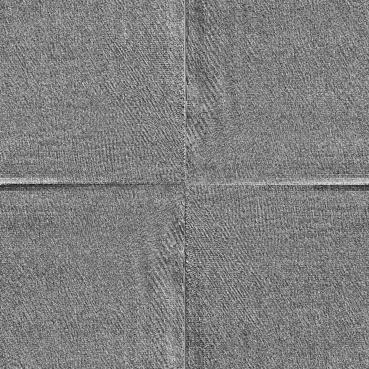
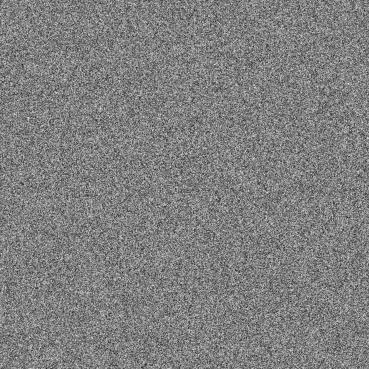
toogle between phase and magnitude

diff --git a/app.py b/app.py
@@ -12,7 +12,22 @@ import os
 import sys
 app = Flask(__name__)
 
+# @app.route('/', methods=['GET', 'POST'])
+# def index():
+#     return render_template('index.html')
+# @app.route('/get', methods=['GET', 'POST'])
+# def get(jsdata):
+#     print(jsdata)
+#     return 'success'
+# @app.route('/post', methods=['GET', 'POST'])
+# def post():
+#     print('hello')
+#     print(request.form['data'])
+#     return 'success'
+# if __name__ == '__main__':
+#     app.run()
 
+########################################### Misara #######################################
 @app.route("/" ,methods=['POST','GET'])
 def image():
     if request.method == 'POST':
@@ -27,34 +42,50 @@ def image():
                 print('CUTZZZZZ')            
         if phasemag != None:
             if phasemag.filename == '1':
-                print('phase1mag2')
+                Functions.var = [2,1]
             else:
-                print('phase2mag1')
+                Functions.var = [0,3]
         if img1 != None:
             imgs_save = img1.filename + '.jpg'
             img1.save(imgs_save)
             Functions.fourier_1 = Functions.fourier('./image1.jpg')
-            Functions.fourier_1 = Functions.magphase(Functions.fourier_1, 'mag')
-            Functions.visulaize(np.log(Functions.fourier_1),1)
+            Functions.fouriers_list[0] = Functions.magphase(Functions.fourier_1, 'mag')
+            Functions.fouriers_list[1] = Functions.magphase(Functions.fourier_1, 'phase')
+            # Functions.fourier_1 = Functions.magphase(Functions.fourier_1, 'mag')
+            # Functions.visulaize(np.log(Functions.fourier_1),1)
             Functions.flag_1 = True
         if img2 != None:
             imgs_save2 = img2.filename + '.jpg'
             img2.save(imgs_save2)
             Functions.fourier_2 = Functions.fourier('./image2.jpg')
-            Functions.fourier_2 = Functions.magphase(Functions.fourier_2, 'phase')
-            Functions.visulaize(Functions.fourier_2,2)
+            Functions.fouriers_list[2] = Functions.magphase(Functions.fourier_2, 'mag')
+            Functions.fouriers_list[3] = Functions.magphase(Functions.fourier_2, 'phase')
+            # Functions.fourier_2 = Functions.magphase(Functions.fourier_2, 'phase')
+            # Functions.visulaize(Functions.fourier_2,2)
             Functions.flag_2 = True
-        if Functions.flag_1:
-            re_image = Functions.re_fourier(Functions.fourier_1,Functions.random_mat)
-        if Functions.flag_2:
-            re_image = Functions.re_fourier(Functions.random_mat,Functions.fourier_2)
-        if Functions.flag_1 and Functions.flag_2:
-            re_image = Functions.re_fourier(Functions.fourier_1,Functions.fourier_2)
+        # if Functions.var == 1:
+        #     Functions.fourier_1 = Functions.magphase(Functions.fourier_1, 'phase')
+        #     Functions.visulaize(Functions.fourier_1,1)
+        #     Functions.fourier_2 = Functions.magphase(Functions.fourier_2, 'mag')
+        #     Functions.visulaize(np.log(Functions.fourier_2),2)
+        # if Functions.var == 2:
+        #     Functions.fourier_1 = Functions.magphase(Functions.fourier_1, 'mag')
+        #     Functions.visulaize(np.log(Functions.fourier_1),1)
+        #     Functions.fourier_2 = Functions.magphase(Functions.fourier_2, 'phase')
+        #     Functions.visulaize(Functions.fourier_2,2)
+        print(Functions.var)
+        Functions.visulaize(np.log(Functions.fouriers_list[Functions.var[0]]),1)
+        Functions.visulaize(Functions.fouriers_list[Functions.var[1]],2)
+        re_image = Functions.re_fourier(Functions.fouriers_list[Functions.var[0]],Functions.fouriers_list[Functions.var[1]])
+        # if Functions.flag_1:
+        #     re_image = Functions.re_fourier(Functions.fouriers_list[Functions.var[0]],Functions.fouriers_list[Functions.var[1]]])
+        # if Functions.flag_2:
+        #     re_image = Functions.re_fourier(Functions.random_mat,Functions.fourier_2)
+        # if Functions.flag_1 and Functions.flag_2:
+        #     re_image = Functions.re_fourier(Functions.fourier_1,Functions.fourier_2)
         Functions.visulaize(np.abs(re_image),3)
         return render_template('main.html')
     else:
         return render_template('main.html')
-
 if __name__ == '__main__':
     app.run(debug=True)
-

diff --git a/functions.py b/functions.py
@@ -6,9 +6,13 @@ import sys
 class Functions():
     fourier_1 = []
     fourier_2 = []
+    # fou_send_1 = []
+    # fou_send_2 = []
+    var = [0,3]
     flag_1 = False
     flag_2 = False
     random_mat = np.random.randint(0,1000,size=(800,800))
+    fouriers_list = [random_mat,random_mat,random_mat,random_mat]
     def fourier(img):
         matrix = cv.imread(img)
         matrix = cv.cvtColor(matrix, cv.COLOR_BGR2GRAY)
